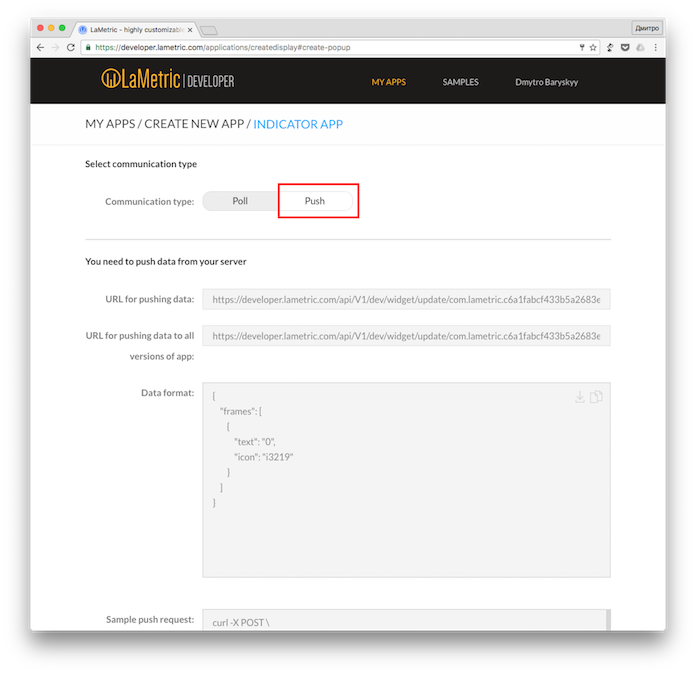
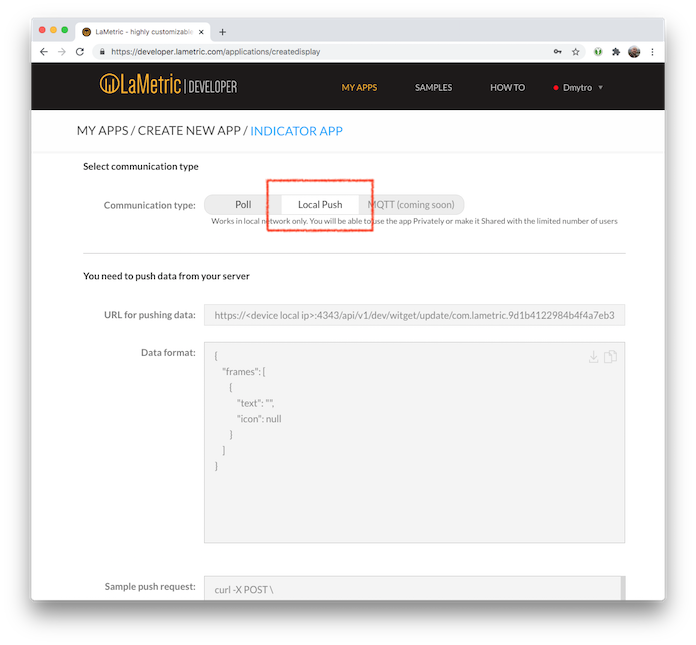
Updated first-lametric-indicator-app tutorial to reflect changes in push functionality.

diff --git a/guides/first-steps/first-lametric-indicator-app.rst b/guides/first-steps/first-lametric-indicator-app.rst
@@ -5,11 +5,11 @@ First Indicator App
 
 Indicator app is a native LaMetric Time app that is useful for displaying icons, numbers, text and charts that must stay on the device at all times.
 
-There are two ways you can deliver data to the app – push and poll. "Push" means you can send data to the app and it will be delivered immediately. "Poll" app will poll for the data with some predefined time interval. 
+There are two ways you can deliver data to the app – push and poll. "Push" means you can send data to the app in your local network and it will be delivered immediately. "Poll" app will poll for the data with some predefined time interval in local network or from the Internet. 
 
-Push Indicator App
-------------------
-Use "push" communication type when data is not changing too often and you want it to be updated as soon as it changes. Let's create the simplest indicator app and see how it works.
+Local Push Indicator App
+------------------------
+Use "Local Push" communication type when data is not changing too often and you want it to be updated as soon as it changes. Let's create the simplest indicator app and see how it works.
 
 1. Create Indicator App
 ^^^^^^^^^^^^^^^^^^^^^^^
@@ -17,11 +17,11 @@ Start by logging in to your `developer account <https://developer.lametric.com>`
 
 .. image:: ../../images/app-indicator-push/step1.png
 
-Choose icon for your app. It will represent what we are trying to keep track of.
+Choose an icon for your app. It will represent what we are trying to keep track of.
 
 .. image:: ../../images/app-indicator-push/step2.png
 
-You can choose existing one or create icon yourself. It will be available to the whole community.
+You can choose existing one or create the icon for yourself. It will be available to the whole community.
 
 .. image:: ../../images/app-indicator-push/step3.png
 
@@ -29,34 +29,34 @@ Enter initial value that will be displayed by default.
 
 .. image:: ../../images/app-indicator-push/step4.png
 
-Choose "Push" communication type as we are going to push data to the app.
+Choose "Local Push" communication type as we are going to push the data to the app.
 
 .. image:: ../../images/app-indicator-push/step5.png
 
-Go to next step by clicking on the "Next" button.
+Go to the next step by clicking on the "Next" button.
 
 .. image:: ../../images/app-indicator-push/step6.png
 
-Now enter the name and description for your app. You'll find it in `Appstore <http://apps.lametric.com>`_ and LaMetric Time app.
+Now enter the name and description for your app. You'll find it in `LaMetric Market <http://apps.lametric.com>`_ and LaMetric Time app.
 
 .. image:: ../../images/app-indicator-push/step7.png
 
-Once app is saved you will be presented with push URL, access token and data format. Now you have all the information to start delivering some data.
+Once the app is saved you will be presented with local push URL, access token and data format. Now you have all the information to start delivering some data.
 
-2. Publish app and install it to your LaMetric Time
-^^^^^^^^^^^^^^^^^^^^^^^^^^^^^^^^^^^^^^^^^^^^^^^^^^^
-Let's click that "Publish" button at the top and wait for confirmation email. It should take no longer than two minutes for the e-mail to reach your inbox.
+2. Publish the app and install it to your LaMetric Time
+^^^^^^^^^^^^^^^^^^^^^^^^^^^^^^^^^^^^^^^^^^^^^^^^^^^^^^^
+Let's click that "Publish" button at the top and wait for a confirmation email. It should take no longer than two minutes for the e-mail to reach your inbox. Once the email is delivered - congratulations, your app is live.
 
 .. image:: ../../images/app-indicator-push/step8.png
 
-Install your newly created app to your LaMetric Time device!
+Now install your newly created app to your LaMetric Time device!
 
 .. image:: ../../images/app-indicator-push/app-step1.png
 .. image:: ../../images/app-indicator-push/app-step2.png
 .. image:: ../../images/app-indicator-push/app-step3.png
 .. image:: ../../images/app-indicator-push/app-step4.png
 
-At this stage it should be active on LaMetric Time, displaying default value.
+At this stage it should be active on LaMetric Time displaying default value.
 
 .. image:: ../../images/app-indicator-push/value-0.jpg
 
@@ -74,15 +74,16 @@ Fortunately, there is curl example already on your app details page. Lets see ho
     -H "Accept: application/json" \
     -H "X-Access-Token: NzM2ZmI3ZTQyZDI0ZDk4OWExNTJmNTc1ZGQ3MzYyMjg2NDkwODA1MDMwODQ0ODAzNjMyNTgxYmI1YmIwYjBiOA==" \
     -H "Cache-Control: no-cache" \
+    -k \
     -d '{
         "frames": [
             {
-                "text": "0",
+                "text": "1",
                 "icon": 3219
             }
         ]
     }' \
-    https://developer.lametric.com/api/v1/dev/widget/update/com.lametric.22e45a6407da88c0c938a8aaf8f7406f/1
+    https://192.168.88.248:4343/api/v1/dev/widget/update/com.lametric.22e45a6407da88c0c938a8aaf8f7406f/1
 
 .. note::
     Don't forget to replace X-Access-Token and URL with values specific to your app. You can find them on the app details page on "Published V1" tab.
